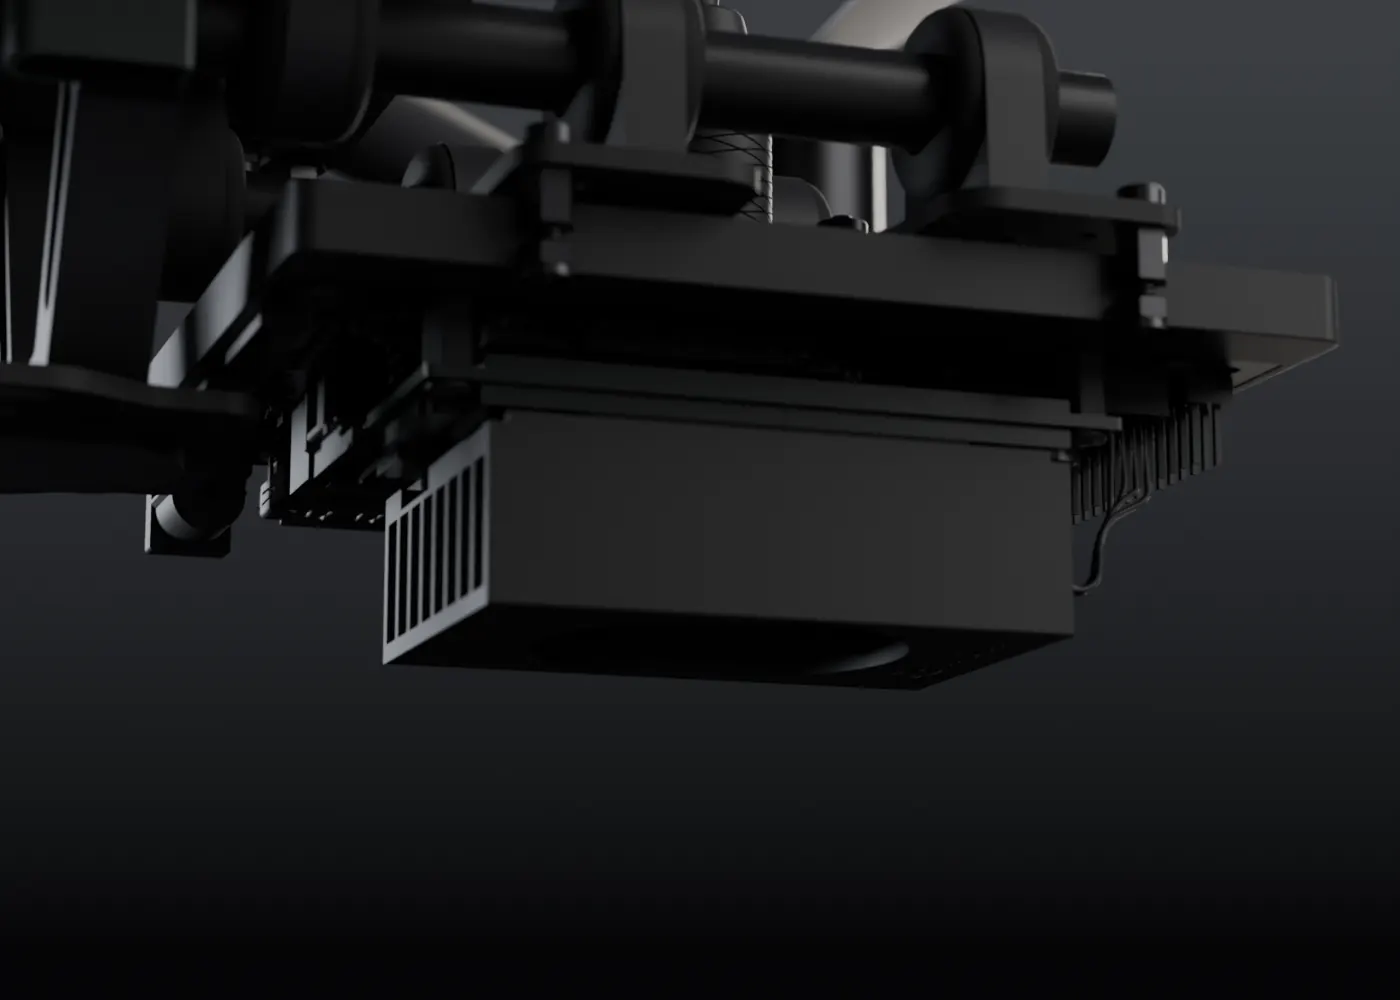
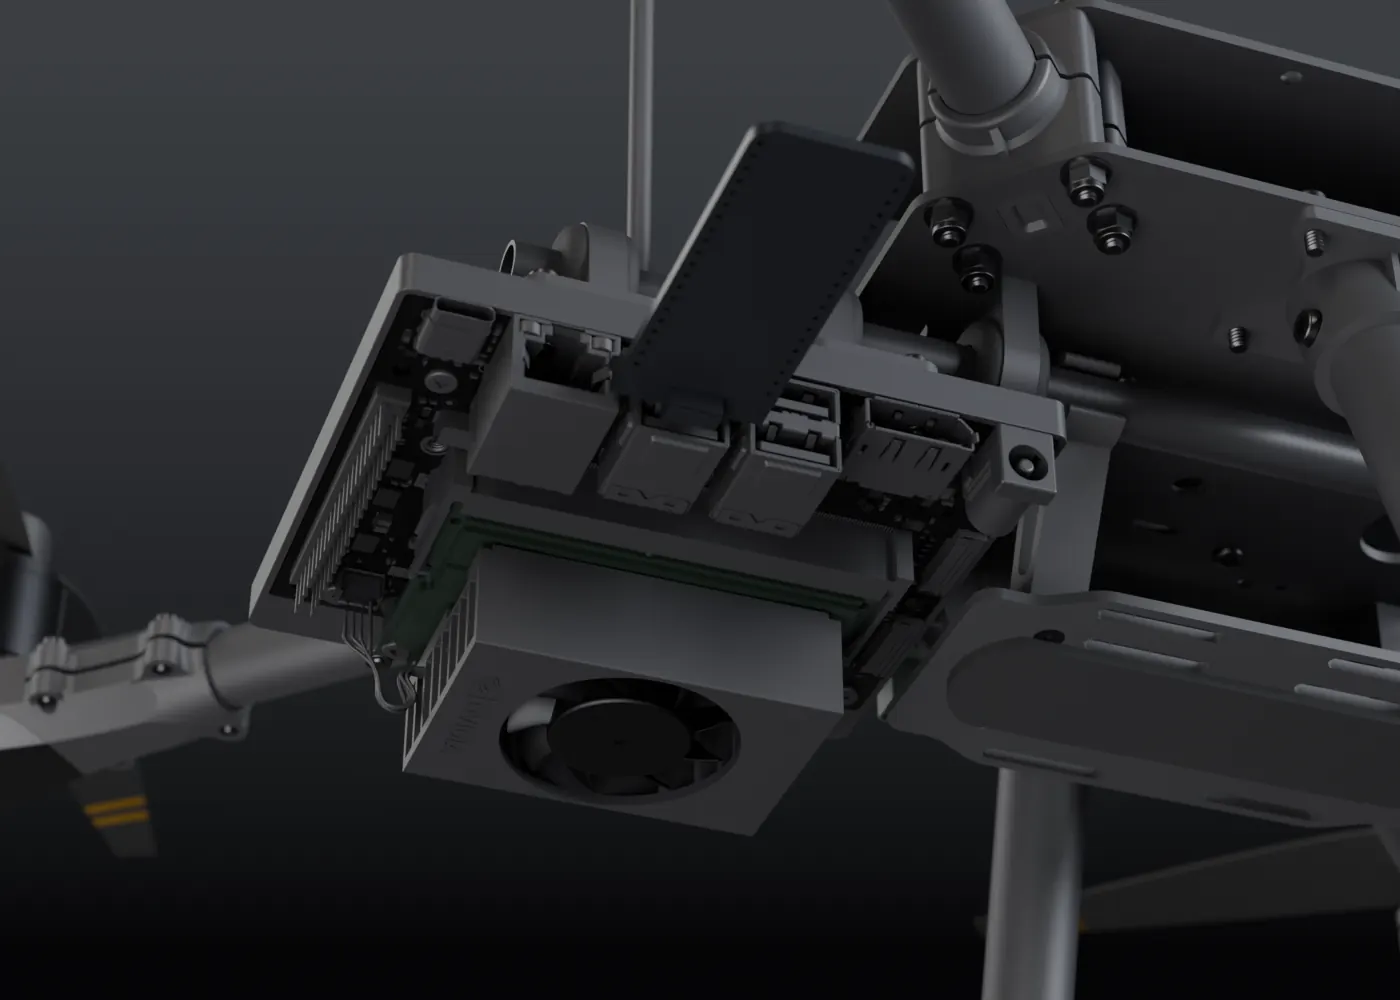
Light the Jetson close-up, and put the radio in it
The Jetson tile was half the brightness of every other render in the gallery:
mean luminance 22 against 33 to 59 for its neighbours, and a median of 9, which
is to say half the frame was effectively black. The cause was not exposure. The
Jetson sits under the payload shelf and the camera looks up at it from 41
degrees below, while all four lamps in the scene sit above z = +0.05. Nothing
was lighting it at all.

So a shot can now ask for its own fill. render_stills.py builds a soft area
light from the shot table, renders, and removes it again, which keeps it out of
every other shot and out of the .blend. This one gets 12 W from below-starboard.
Mean luminance is now 40 and the tile no longer reads as the odd one out.

Reframed at the same time to carry the Heltec stick as well as the Orin Nano,
since the radio was modelled and placed but had never appeared anywhere on the
site. Eight angles were rendered to pick it: at 50 degrees the radio merges into
the shelf, at 105 a propeller crosses the subject, and at 70 both boards read
with the Jetson's fins, fan and connector bank facing the camera.

The caption says the render is missing the OLED. _localai/heltec_alignment.json
has recorded since the part was imported that the geometry was exported as the
Lite variant while the hardware is a V3, and asked that this be said plainly
before the part was ever labelled in a gallery close-up. This is that close-up.
[…]

diff --git a/index.html b/index.html
@@ -367,10 +367,10 @@
 
       <div class="tile">
         <figure>
-          <img src="assets/renders/cu-jetson.webp" width="1400" height="1000" loading="lazy" alt="The Jetson Orin Nano developer kit mounted beneath the payload shelf, heatsink fins and connector bank visible">
+          <img src="assets/renders/cu-jetson.webp" width="1400" height="1000" loading="lazy" alt="The Jetson Orin Nano developer kit mounted beneath the payload shelf, its heatsink fins, fan and connector bank facing the camera, with the Heltec LoRa stick standing on the shelf edge above it">
         </figure>
-        <h3>NVIDIA Jetson Orin Nano</h3>
-        <p>The companion computer, under the payload shelf. It runs the command server and talks MAVLink to the 6X.</p>
+        <h3>NVIDIA Jetson Orin Nano &amp; LoRa radio</h3>
+        <p>The companion computer, under the payload shelf, with the 915&nbsp;MHz radio on the shelf edge beside it. It runs the command server and talks MAVLink to the 6X. The radio is a Wireless Stick V3; the geometry here was exported as the Lite, so the render is missing its small OLED.</p>
       </div>
 
       <div class="tile">

diff --git a/docs/BRAND.md b/docs/BRAND.md
@@ -167,6 +167,8 @@ written down here rather than left to memory.
 | NVIDIA `Orin_Nano_Dev_Kit.STEP` | the companion computer under the payload shelf | NVIDIA's own CAD for the Developer Kit |
 | Pixhawk `PIXHAWK 5X-6X.STEP` | the flight controller on the top plate | vendor CAD; exact source to be recorded |
 | Venator `Drone Propeller` | the four propellers, 254 mm span | modelled in Onshape for this project; ours outright |
+| Luxonis `DM9098Pro_enclosure.stp` | the OAK-D Pro on the nose bracket | vendor CAD for the enclosure |
+| Venator `wireless_stick_litev3.3mf` | the LoRa radio on the shelf edge | modelled in Onshape for this project; ours outright |
 
 None of those CAD files are committed here. Only the rendered images are, and a
 render of hardware we own is our own picture of our own aircraft. That said:
@@ -181,6 +183,11 @@ render of hardware we own is our own picture of our own aircraft. That said:
 - The propeller used to be the open item here. It is not any more: the one in
   these renders was modelled for this project, replacing a downloaded STL whose
   author and licence were never recorded.
+- **The radio render is a Lite, the hardware is a V3.** The geometry was
+  exported as `wireless_stick_litev3.3mf`, and the Lite has no display, so the
+  render is missing the V3's 0.49 inch OLED. The envelope is otherwise the same.
+  The gallery caption says so outright rather than letting the picture imply a
+  board that is not there.
 - The Pixhawk CAD is now the one open item. Its exact source is not written
   down, and should be before these renders are used anywhere beyond this
   repository.
